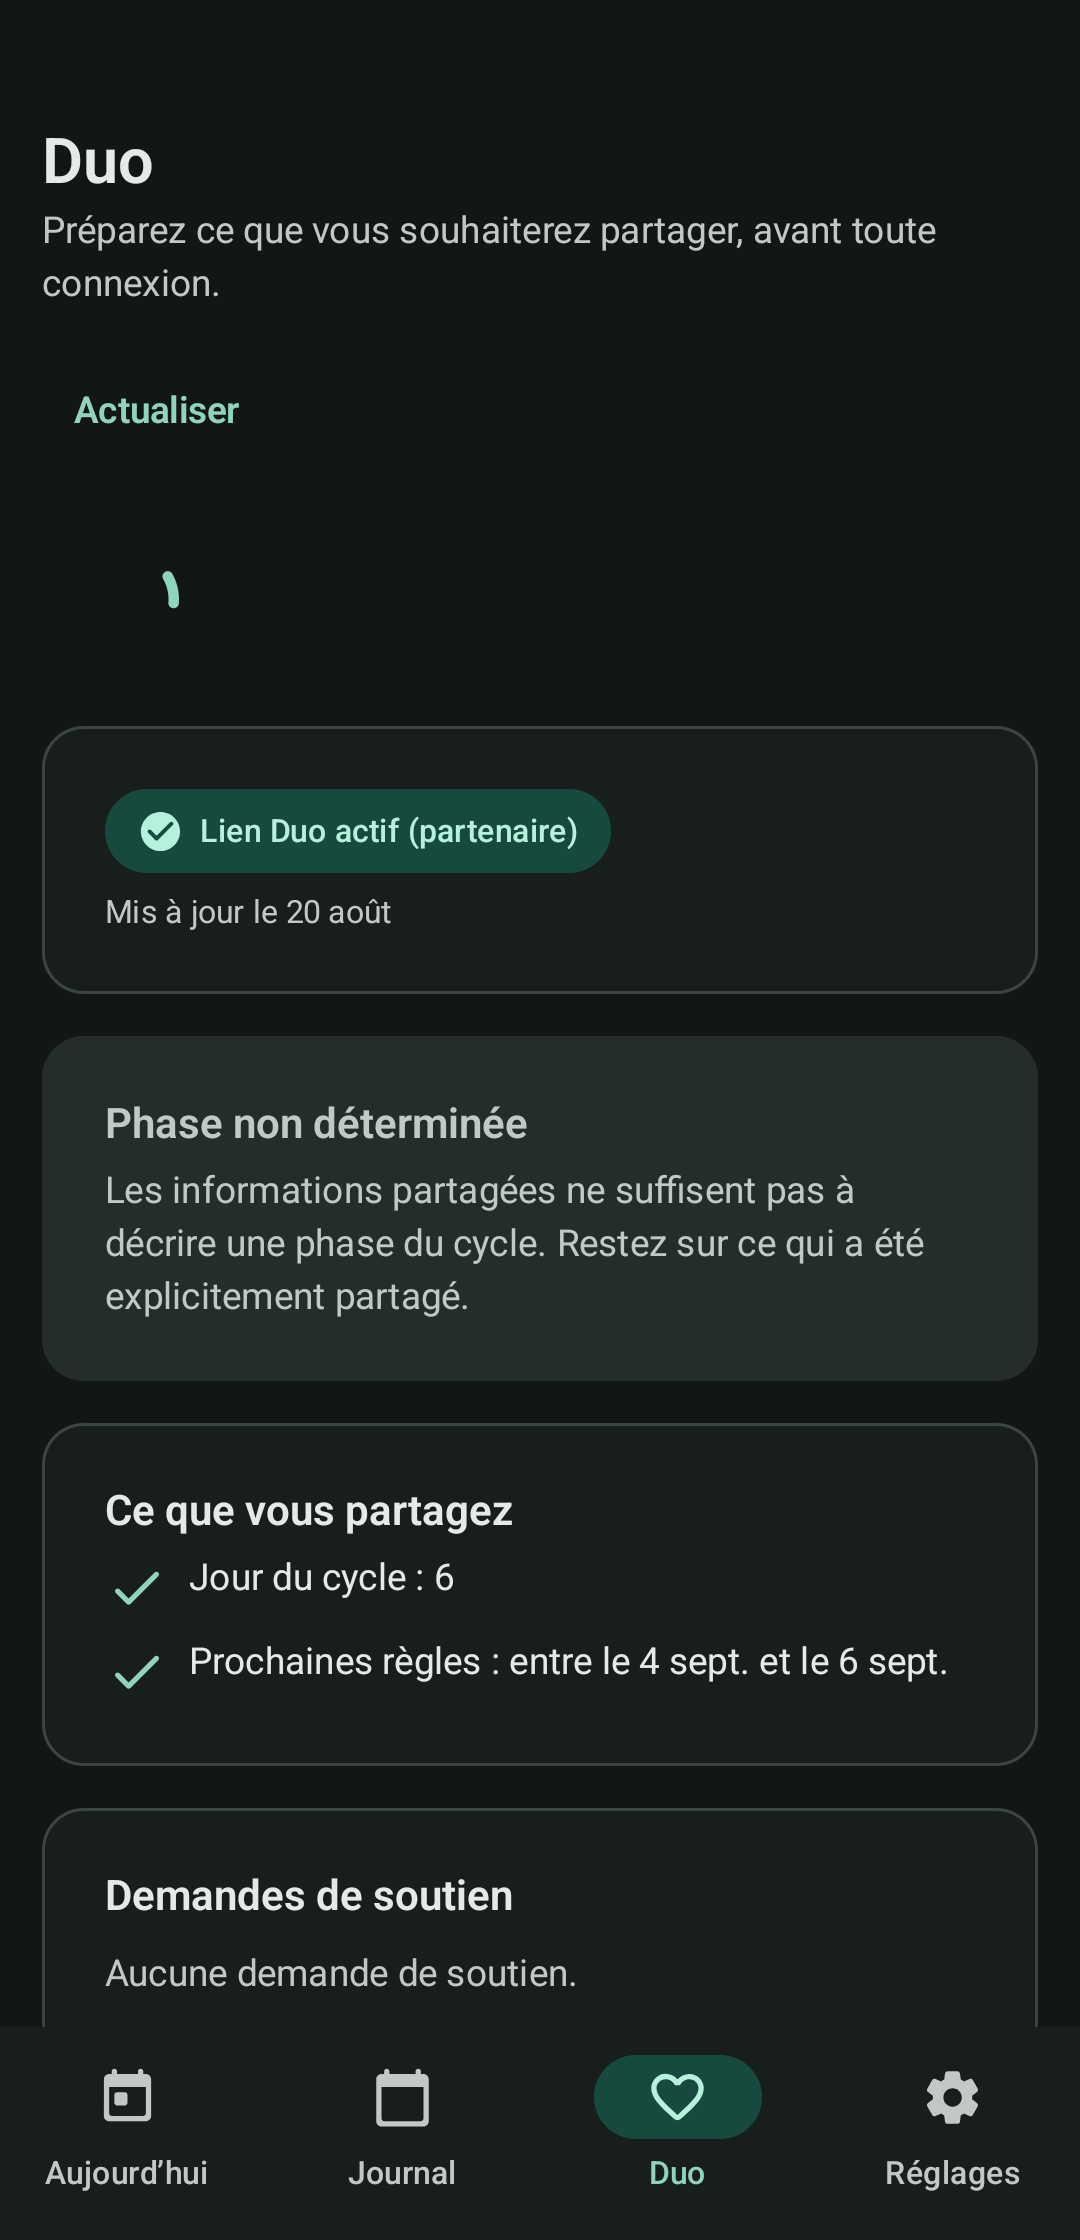
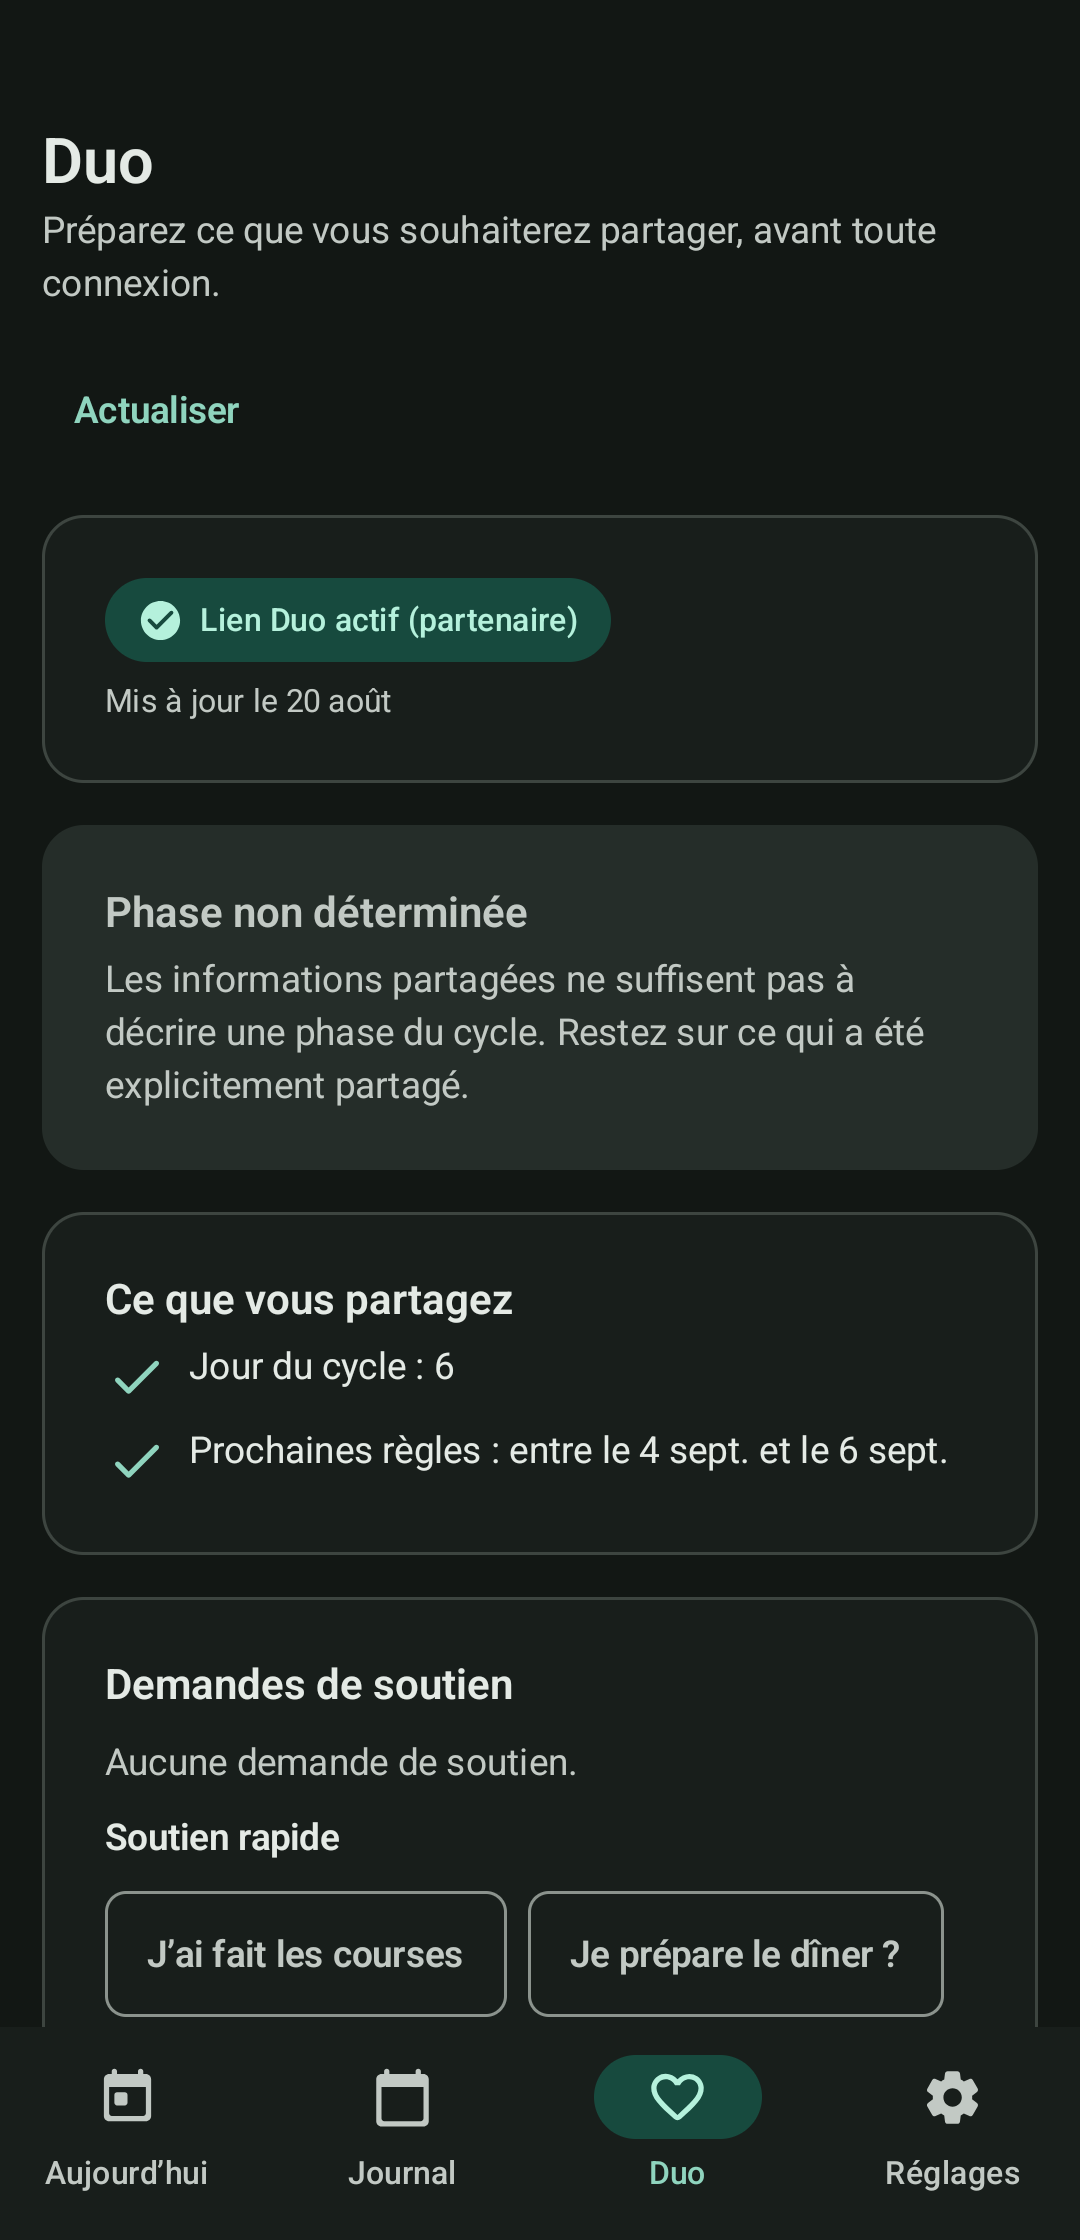
docs: remove loading spinner from duo fastlane screenshots and viewmodel

diff --git a/app/src/main/java/fr/luteal/app/navigation/DuoViewModel.kt b/app/src/main/java/fr/luteal/app/navigation/DuoViewModel.kt
@@ -83,15 +83,19 @@ class DuoViewModel @Inject constructor(
                 _uiState.update { it.copy(phase = DuoPhase.NoAccount, isLoading = false) }
                 return@launch
             }
-
             // Show cached projection immediately so offline and demo data render instantly
-            applyCachedProjection()
+            if (cached != null) {
+                applyCachedProjection()
+                _uiState.update { it.copy(isLoading = false) }
+            } else {
+                _uiState.update { it.copy(isLoading = true, error = null) }
+            }
             seedGrantsFromCache()
 
             if (!duoRepository.hasAccount()) {
                 return@launch
             }
-            _uiState.update { it.copy(isLoading = true, error = null) }
+
             runCatching { duoRepository.duoView() }
                 .onSuccess { view ->
                     val isTracker =
